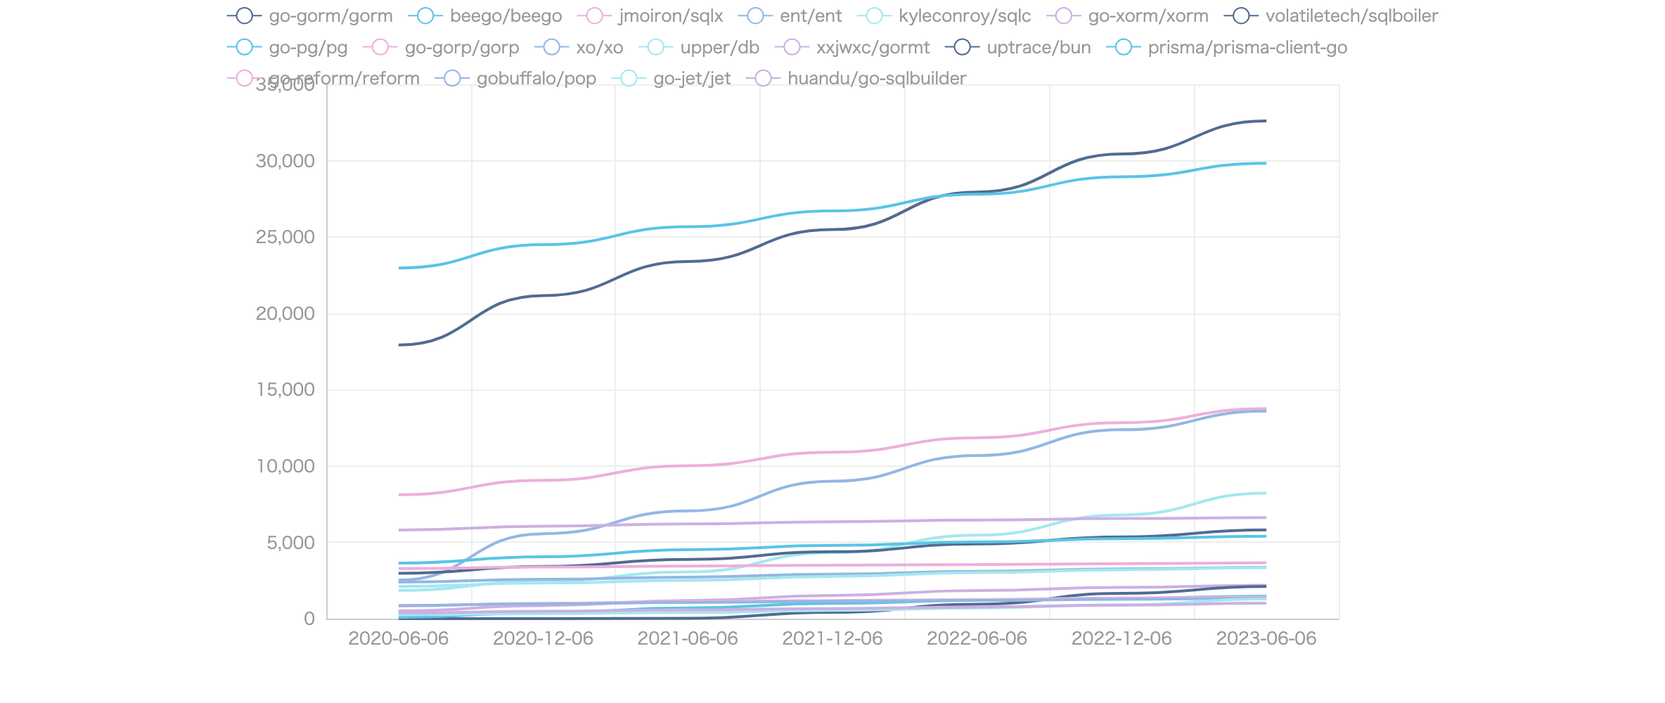
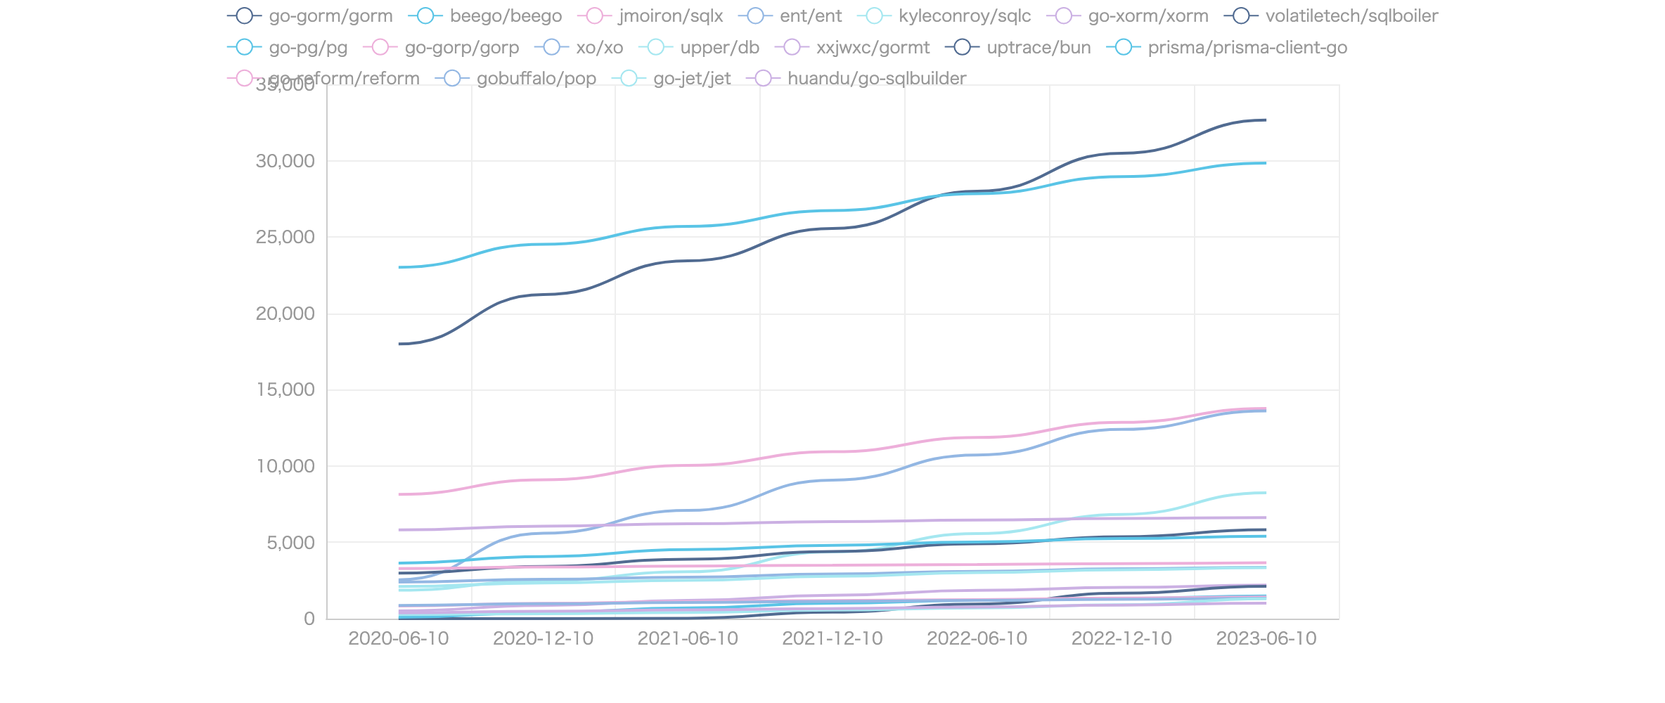
update readme

diff --git a/output/orm_chart.html b/output/orm_chart.html
@@ -10,20 +10,20 @@
 
 <body>
 <div class="container">
-    <div class="item" id="aJYYSRXcNXSx" style="width:900px;height:500px;"></div>
+    <div class="item" id="UhxAJjTzHyHX" style="width:900px;height:500px;"></div>
 </div>
 
 <script type="text/javascript">
     "use strict";
-    let goecharts_aJYYSRXcNXSx = echarts.init(document.getElementById('aJYYSRXcNXSx'), "westeros");
-    let option_aJYYSRXcNXSx = {"dataset":{"source":null},"legend":{"show":true,"type":""},"series":[{"name":"go-gorm/gorm","type":"line","smooth":true,"connectNulls":false,"showSymbol":false,"waveAnimation":false,"renderLabelForZeroData":false,"selectedMode":false,"animation":false,"data":[{"value":17924,"XAxisIndex":0,"YAxisIndex":0},{"value":21164,"XAxisIndex":0,"YAxisIndex":0},{"value":23393,"XAxisIndex":0,"YAxisIndex":0},{"value":25487,"XAxisIndex":0,"YAxisIndex":0},{"value":27946,"XAxisIndex":0,"YAxisIndex":0},{"value":30438,"XAxisIndex":0,"YAxisIndex":0},{"value":32605,"XAxisIndex":0,"YAxisIndex":0}]},{"name":"beego/beego","type":"line","smooth":true,"connectNulls":false,"showSymbol":false,"waveAnimation":false,"renderLabelForZeroData":false,"selectedMode":false,"animation":false,"data":[{"value":22973,"XAxisIndex":0,"YAxisIndex":0},{"value":24498,"XAxisIndex":0,"YAxisIndex":0},{"value":25670,"XAxisIndex":0,"YAxisIndex":0},{"value":26706,"XAxisIndex":0,"YAxisIndex":0},{"value":27804,"XAxisIndex":0,"YAxisIndex":0},{"value":28943,"XAxisIndex":0,"YAxisIndex":0},{"value":29826,"XAxisIndex":0,"YAxisIndex":0}]},{"name":"jmoiron/sqlx","type":"line","smooth":true,"connectNulls":false,"showSymbol":false,"waveAnimation":false,"renderLabelForZeroData":false,"selectedMode":false,"animation":false,"data":[{"value":8121,"XAxisIndex":0,"YAxisIndex":0},{"value":9066,"XAxisIndex":0,"YAxisIndex":0},{"value":10017,"XAxisIndex":0,"YAxisIndex":0},{"value":10903,"XAxisIndex":0,"YAxisIndex":0},{"value":11851,"XAxisIndex":0,"YAxisIndex":0},{"value":12836,"XAxisIndex":0,"YAxisIndex":0},{"value":13763,"XAxisIndex":0,"YAxisIndex":0}]},{"name":"ent/ent","type":"line","smooth":true,"connectNulls":false,"showSymbol":false,"waveAnimation":false,"renderLabelForZeroData":false,"selectedMode":false,"animation":false,"data":[{"value":2523,"XAxisIndex":0,"YAxisIndex":0},{"value":5566,"XAxisIndex":0,"YAxisIndex":0},{"value":7057,"XAxisIndex":0,"YAxisIndex":0},{"value":9004,"XAxisIndex":0,"YAxisIndex":0},{"value":10686,"XAxisIndex":0,"YAxisIndex":0},{"value":12373,"XAxisIndex":0,"YAxisIndex":0},{"value":13594,"XAxisIndex":0,"YAxisIndex":0}]},{"name":"kyleconroy/sqlc","type":"line","smooth":true,"connectNulls":false,"showSymbol":false,"waveAnimation":false,"renderLabelForZeroData":false,"selectedMode":false,"animation":false,"data":[{"value":1854,"XAxisIndex":0,"YAxisIndex":0},{"value":2457,"XAxisIndex":0,"YAxisIndex":0},{"value":3058,"XAxisIndex":0,"YAxisIndex":0},{"value":4322,"XAxisIndex":0,"YAxisIndex":0},{"value":5463,"XAxisIndex":0,"YAxisIndex":0},{"value":6798,"XAxisIndex":0,"YAxisIndex":0},{"value":8226,"XAxisIndex":0,"YAxisIndex":0}]},{"name":"go-xorm/xorm","type":"line","smooth":true,"connectNulls":false,"showSymbol":false,"waveAnimation":false,"renderLabelForZeroData":false,"selectedMode":false,"animation":false,"data":[{"value":5799,"XAxisIndex":0,"YAxisIndex":0},{"value":6053,"XAxisIndex":0,"YAxisIndex":0},{"value":6209,"XAxisIndex":0,"YAxisIndex":0},{"value":6349,"XAxisIndex":0,"YAxisIndex":0},{"value":6455,"XAxisIndex":0,"YAxisIndex":0},{"value":6559,"XAxisIndex":0,"YAxisIndex":0},{"value":6623,"XAxisIndex":0,"YAxisIndex":0}]},{"name":"volatiletech/sqlboiler","type":"line","smooth":true,"connectNulls":false,"showSymbol":false,"waveAnimation":false,"renderLabelForZeroData":false,"selectedMode":false,"animation":false,"data":[{"value":2974,"XAxisIndex":0,"YAxisIndex":0},{"value":3414,"XAxisIndex":0,"YAxisIndex":0},{"value":3882,"XAxisIndex":0,"YAxisIndex":0},{"value":4381,"XAxisIndex":0,"YAxisIndex":0},{"value":4888,"XAxisIndex":0,"YAxisIndex":0},{"value":5356,"XAxisIndex":0,"YAxisIndex":0},{"value":5816,"XAxisIndex":0,"YAxisIndex":0}]},{"name":"go-pg/pg","type":"line","smooth":true,"connectNulls":false,"showSymbol":false,"waveAnimation":false,"renderLabelForZeroData":false,"selectedMode":false,"animation":false,"data":[{"value":3638,"XAxisIndex":0,"YAxisIndex":0},{"value":4053,"XAxisIndex":0,"YAxisIndex":0},{"value":4509,"XAxisIndex":0,"YAxisIndex":0},{"value":4798,"XAxisIndex":0,"YAxisIndex":0},{"value":5016,"XAxisIndex":0,"YAxisIndex":0},{"value":5240,"XAxisIndex":0,"YAxisIndex":0},{"value":5399,"XAxisIndex":0,"YAxisIndex":0}]},{"name":"go-gorp/gorp","type":"line","smooth":true,"connectNulls":false,"showSymbol":false,"waveAnimation":false,"renderLabelForZeroData":false,"selectedMode":false,"animation":false,"data":[{"value":3277,"XAxisIndex":0,"YAxisIndex":0},{"value":3380,"XAxisIndex":0,"YAxisIndex":0},{"value":3441,"XAxisIndex":0,"YAxisIndex":0},{"value":3502,"XAxisIndex":0,"YAxisIndex":0},{"value":3547,"XAxisIndex":0,"YAxisIndex":0},{"value":3602,"XAxisIndex":0,"YAxisIndex":0},{"value":3658,"XAxisIndex":0,"YAxisIndex":0}]},{"name":"xo/xo","type":"line","smooth":true,"connectNulls":false,"showSymbol":false,"waveAnimation":false,"renderLabelForZeroData":false,"selectedMode":false,"animation":false,"data":[{"value":2391,"XAxisIndex":0,"YAxisIndex":0},{"value":2574,"XAxisIndex":0,"YAxisIndex":0},{"value":2717,"XAxisIndex":0,"YAxisIndex":0},{"value":2916,"XAxisIndex":0,"YAxisIndex":0},{"value":3098,"XAxisIndex":0,"YAxisIndex":0},{"value":3258,"XAxisIndex":0,"YAxisIndex":0},{"value":3362,"XAxisIndex":0,"YAxisIndex":0}]},{"name":"upper/db","type":"line","smooth":true,"connectNulls":false,"showSymbol":false,"waveAnimation":false,"renderLabelForZeroData":false,"selectedMode":false,"animation":false,"data":[{"value":2103,"XAxisIndex":0,"YAxisIndex":0},{"value":2333,"XAxisIndex":0,"YAxisIndex":0},{"value":2508,"XAxisIndex":0,"YAxisIndex":0},{"value":2768,"XAxisIndex":0,"YAxisIndex":0},{"value":3016,"XAxisIndex":0,"YAxisIndex":0},{"value":3202,"XAxisIndex":0,"YAxisIndex":0},{"value":3334,"XAxisIndex":0,"YAxisIndex":0}]},{"name":"xxjwxc/gormt","type":"line","smooth":true,"connectNulls":false,"showSymbol":false,"waveAnimation":false,"renderLabelForZeroData":false,"selectedMode":false,"animation":false,"data":[{"value":505,"XAxisIndex":0,"YAxisIndex":0},{"value":852,"XAxisIndex":0,"YAxisIndex":0},{"value":1187,"XAxisIndex":0,"YAxisIndex":0},{"value":1519,"XAxisIndex":0,"YAxisIndex":0},{"value":1841,"XAxisIndex":0,"YAxisIndex":0},{"value":2045,"XAxisIndex":0,"YAxisIndex":0},{"value":2188,"XAxisIndex":0,"YAxisIndex":0}]},{"name":"uptrace/bun","type":"line","smooth":true,"connectNulls":false,"showSymbol":false,"waveAnimation":false,"renderLabelForZeroData":false,"selectedMode":false,"animation":false,"data":[{"value":0,"XAxisIndex":0,"YAxisIndex":0},{"value":0,"XAxisIndex":0,"YAxisIndex":0},{"value":25,"XAxisIndex":0,"YAxisIndex":0},{"value":417,"XAxisIndex":0,"YAxisIndex":0},{"value":947,"XAxisIndex":0,"YAxisIndex":0},{"value":1653,"XAxisIndex":0,"YAxisIndex":0},{"value":2106,"XAxisIndex":0,"YAxisIndex":0}]},{"name":"prisma/prisma-client-go","type":"line","smooth":true,"connectNulls":false,"showSymbol":false,"waveAnimation":false,"renderLabelForZeroData":false,"selectedMode":false,"animation":false,"data":[{"value":81,"XAxisIndex":0,"YAxisIndex":0},{"value":391,"XAxisIndex":0,"YAxisIndex":0},{"value":697,"XAxisIndex":0,"YAxisIndex":0},{"value":1001,"XAxisIndex":0,"YAxisIndex":0},{"value":1193,"XAxisIndex":0,"YAxisIndex":0},{"value":1324,"XAxisIndex":0,"YAxisIndex":0},{"value":1478,"XAxisIndex":0,"YAxisIndex":0}]},{"name":"go-reform/reform","type":"line","smooth":true,"connectNulls":false,"showSymbol":false,"waveAnimation":false,"renderLabelForZeroData":false,"selectedMode":false,"animation":false,"data":[{"value":828,"XAxisIndex":0,"YAxisIndex":0},{"value":1004,"XAxisIndex":0,"YAxisIndex":0},{"value":1114,"XAxisIndex":0,"YAxisIndex":0},{"value":1189,"XAxisIndex":0,"YAxisIndex":0},{"value":1244,"XAxisIndex":0,"YAxisIndex":0},{"value":1349,"XAxisIndex":0,"YAxisIndex":0},{"value":1413,"XAxisIndex":0,"YAxisIndex":0}]},{"name":"gobuffalo/pop","type":"line","smooth":true,"connectNulls":false,"showSymbol":false,"waveAnimation":false,"renderLabelForZeroData":false,"selectedMode":false,"animation":false,"data":[{"value":863,"XAxisIndex":0,"YAxisIndex":0},{"value":972,"XAxisIndex":0,"YAxisIndex":0},{"value":1055,"XAxisIndex":0,"YAxisIndex":0},{"value":1131,"XAxisIndex":0,"YAxisIndex":0},{"value":1200,"XAxisIndex":0,"YAxisIndex":0},{"value":1262,"XAxisIndex":0,"YAxisIndex":0},{"value":1332,"XAxisIndex":0,"YAxisIndex":0}]},{"name":"go-jet/jet","type":"line","smooth":true,"connectNulls":false,"showSymbol":false,"waveAnimation":false,"renderLabelForZeroData":false,"selectedMode":false,"animation":false,"data":[{"value":260,"XAxisIndex":0,"YAxisIndex":0},{"value":326,"XAxisIndex":0,"YAxisIndex":0},{"value":404,"XAxisIndex":0,"YAxisIndex":0},{"value":546,"XAxisIndex":0,"YAxisIndex":0},{"value":703,"XAxisIndex":0,"YAxisIndex":0},{"value":901,"XAxisIndex":0,"YAxisIndex":0},{"value":1295,"XAxisIndex":0,"YAxisIndex":0}]},{"name":"huandu/go-sqlbuilder","type":"line","smooth":true,"connectNulls":false,"showSymbol":false,"waveAnimation":false,"renderLabelForZeroData":false,"selectedMode":false,"animation":false,"data":[{"value":375,"XAxisIndex":0,"YAxisIndex":0},{"value":487,"XAxisIndex":0,"YAxisIndex":0},{"value":572,"XAxisIndex":0,"YAxisIndex":0},{"value":660,"XAxisIndex":0,"YAxisIndex":0},{"value":765,"XAxisIndex":0,"YAxisIndex":0},{"value":884,"XAxisIndex":0,"YAxisIndex":0},{"value":1009,"XAxisIndex":0,"YAxisIndex":0}]}],"title":{},"tooltip":{"show":false},"xAxis":[{"data":["2020-06-06","2020-12-06","2021-06-06","2021-12-06","2022-06-06","2022-12-06","2023-06-06"]}],"yAxis":[{}]}
+    let goecharts_UhxAJjTzHyHX = echarts.init(document.getElementById('UhxAJjTzHyHX'), "westeros");
+    let option_UhxAJjTzHyHX = {"dataset":{"source":null},"legend":{"show":true,"type":""},"series":[{"name":"go-gorm/gorm","type":"line","smooth":true,"connectNulls":false,"showSymbol":false,"waveAnimation":false,"renderLabelForZeroData":false,"selectedMode":false,"animation":false,"data":[{"value":17991,"XAxisIndex":0,"YAxisIndex":0},{"value":21231,"XAxisIndex":0,"YAxisIndex":0},{"value":23438,"XAxisIndex":0,"YAxisIndex":0},{"value":25556,"XAxisIndex":0,"YAxisIndex":0},{"value":28001,"XAxisIndex":0,"YAxisIndex":0},{"value":30484,"XAxisIndex":0,"YAxisIndex":0},{"value":32658,"XAxisIndex":0,"YAxisIndex":0}]},{"name":"beego/beego","type":"line","smooth":true,"connectNulls":false,"showSymbol":false,"waveAnimation":false,"renderLabelForZeroData":false,"selectedMode":false,"animation":false,"data":[{"value":23013,"XAxisIndex":0,"YAxisIndex":0},{"value":24525,"XAxisIndex":0,"YAxisIndex":0},{"value":25699,"XAxisIndex":0,"YAxisIndex":0},{"value":26735,"XAxisIndex":0,"YAxisIndex":0},{"value":27838,"XAxisIndex":0,"YAxisIndex":0},{"value":28958,"XAxisIndex":0,"YAxisIndex":0},{"value":29837,"XAxisIndex":0,"YAxisIndex":0}]},{"name":"jmoiron/sqlx","type":"line","smooth":true,"connectNulls":false,"showSymbol":false,"waveAnimation":false,"renderLabelForZeroData":false,"selectedMode":false,"animation":false,"data":[{"value":8139,"XAxisIndex":0,"YAxisIndex":0},{"value":9093,"XAxisIndex":0,"YAxisIndex":0},{"value":10041,"XAxisIndex":0,"YAxisIndex":0},{"value":10932,"XAxisIndex":0,"YAxisIndex":0},{"value":11870,"XAxisIndex":0,"YAxisIndex":0},{"value":12857,"XAxisIndex":0,"YAxisIndex":0},{"value":13775,"XAxisIndex":0,"YAxisIndex":0}]},{"name":"ent/ent","type":"line","smooth":true,"connectNulls":false,"showSymbol":false,"waveAnimation":false,"renderLabelForZeroData":false,"selectedMode":false,"animation":false,"data":[{"value":2544,"XAxisIndex":0,"YAxisIndex":0},{"value":5590,"XAxisIndex":0,"YAxisIndex":0},{"value":7087,"XAxisIndex":0,"YAxisIndex":0},{"value":9078,"XAxisIndex":0,"YAxisIndex":0},{"value":10722,"XAxisIndex":0,"YAxisIndex":0},{"value":12395,"XAxisIndex":0,"YAxisIndex":0},{"value":13611,"XAxisIndex":0,"YAxisIndex":0}]},{"name":"kyleconroy/sqlc","type":"line","smooth":true,"connectNulls":false,"showSymbol":false,"waveAnimation":false,"renderLabelForZeroData":false,"selectedMode":false,"animation":false,"data":[{"value":1862,"XAxisIndex":0,"YAxisIndex":0},{"value":2482,"XAxisIndex":0,"YAxisIndex":0},{"value":3071,"XAxisIndex":0,"YAxisIndex":0},{"value":4371,"XAxisIndex":0,"YAxisIndex":0},{"value":5567,"XAxisIndex":0,"YAxisIndex":0},{"value":6830,"XAxisIndex":0,"YAxisIndex":0},{"value":8243,"XAxisIndex":0,"YAxisIndex":0}]},{"name":"go-xorm/xorm","type":"line","smooth":true,"connectNulls":false,"showSymbol":false,"waveAnimation":false,"renderLabelForZeroData":false,"selectedMode":false,"animation":false,"data":[{"value":5810,"XAxisIndex":0,"YAxisIndex":0},{"value":6054,"XAxisIndex":0,"YAxisIndex":0},{"value":6212,"XAxisIndex":0,"YAxisIndex":0},{"value":6354,"XAxisIndex":0,"YAxisIndex":0},{"value":6456,"XAxisIndex":0,"YAxisIndex":0},{"value":6559,"XAxisIndex":0,"YAxisIndex":0},{"value":6624,"XAxisIndex":0,"YAxisIndex":0}]},{"name":"volatiletech/sqlboiler","type":"line","smooth":true,"connectNulls":false,"showSymbol":false,"waveAnimation":false,"renderLabelForZeroData":false,"selectedMode":false,"animation":false,"data":[{"value":2981,"XAxisIndex":0,"YAxisIndex":0},{"value":3422,"XAxisIndex":0,"YAxisIndex":0},{"value":3893,"XAxisIndex":0,"YAxisIndex":0},{"value":4396,"XAxisIndex":0,"YAxisIndex":0},{"value":4899,"XAxisIndex":0,"YAxisIndex":0},{"value":5363,"XAxisIndex":0,"YAxisIndex":0},{"value":5828,"XAxisIndex":0,"YAxisIndex":0}]},{"name":"go-pg/pg","type":"line","smooth":true,"connectNulls":false,"showSymbol":false,"waveAnimation":false,"renderLabelForZeroData":false,"selectedMode":false,"animation":false,"data":[{"value":3643,"XAxisIndex":0,"YAxisIndex":0},{"value":4068,"XAxisIndex":0,"YAxisIndex":0},{"value":4520,"XAxisIndex":0,"YAxisIndex":0},{"value":4805,"XAxisIndex":0,"YAxisIndex":0},{"value":5024,"XAxisIndex":0,"YAxisIndex":0},{"value":5245,"XAxisIndex":0,"YAxisIndex":0},{"value":5399,"XAxisIndex":0,"YAxisIndex":0}]},{"name":"go-gorp/gorp","type":"line","smooth":true,"connectNulls":false,"showSymbol":false,"waveAnimation":false,"renderLabelForZeroData":false,"selectedMode":false,"animation":false,"data":[{"value":3281,"XAxisIndex":0,"YAxisIndex":0},{"value":3380,"XAxisIndex":0,"YAxisIndex":0},{"value":3442,"XAxisIndex":0,"YAxisIndex":0},{"value":3503,"XAxisIndex":0,"YAxisIndex":0},{"value":3548,"XAxisIndex":0,"YAxisIndex":0},{"value":3602,"XAxisIndex":0,"YAxisIndex":0},{"value":3660,"XAxisIndex":0,"YAxisIndex":0}]},{"name":"xo/xo","type":"line","smooth":true,"connectNulls":false,"showSymbol":false,"waveAnimation":false,"renderLabelForZeroData":false,"selectedMode":false,"animation":false,"data":[{"value":2394,"XAxisIndex":0,"YAxisIndex":0},{"value":2578,"XAxisIndex":0,"YAxisIndex":0},{"value":2720,"XAxisIndex":0,"YAxisIndex":0},{"value":2923,"XAxisIndex":0,"YAxisIndex":0},{"value":3100,"XAxisIndex":0,"YAxisIndex":0},{"value":3264,"XAxisIndex":0,"YAxisIndex":0},{"value":3364,"XAxisIndex":0,"YAxisIndex":0}]},{"name":"upper/db","type":"line","smooth":true,"connectNulls":false,"showSymbol":false,"waveAnimation":false,"renderLabelForZeroData":false,"selectedMode":false,"animation":false,"data":[{"value":2105,"XAxisIndex":0,"YAxisIndex":0},{"value":2339,"XAxisIndex":0,"YAxisIndex":0},{"value":2511,"XAxisIndex":0,"YAxisIndex":0},{"value":2773,"XAxisIndex":0,"YAxisIndex":0},{"value":3017,"XAxisIndex":0,"YAxisIndex":0},{"value":3205,"XAxisIndex":0,"YAxisIndex":0},{"value":3337,"XAxisIndex":0,"YAxisIndex":0}]},{"name":"xxjwxc/gormt","type":"line","smooth":true,"connectNulls":false,"showSymbol":false,"waveAnimation":false,"renderLabelForZeroData":false,"selectedMode":false,"animation":false,"data":[{"value":509,"XAxisIndex":0,"YAxisIndex":0},{"value":861,"XAxisIndex":0,"YAxisIndex":0},{"value":1194,"XAxisIndex":0,"YAxisIndex":0},{"value":1530,"XAxisIndex":0,"YAxisIndex":0},{"value":1852,"XAxisIndex":0,"YAxisIndex":0},{"value":2047,"XAxisIndex":0,"YAxisIndex":0},{"value":2194,"XAxisIndex":0,"YAxisIndex":0}]},{"name":"uptrace/bun","type":"line","smooth":true,"connectNulls":false,"showSymbol":false,"waveAnimation":false,"renderLabelForZeroData":false,"selectedMode":false,"animation":false,"data":[{"value":0,"XAxisIndex":0,"YAxisIndex":0},{"value":0,"XAxisIndex":0,"YAxisIndex":0},{"value":28,"XAxisIndex":0,"YAxisIndex":0},{"value":429,"XAxisIndex":0,"YAxisIndex":0},{"value":956,"XAxisIndex":0,"YAxisIndex":0},{"value":1669,"XAxisIndex":0,"YAxisIndex":0},{"value":2116,"XAxisIndex":0,"YAxisIndex":0}]},{"name":"prisma/prisma-client-go","type":"line","smooth":true,"connectNulls":false,"showSymbol":false,"waveAnimation":false,"renderLabelForZeroData":false,"selectedMode":false,"animation":false,"data":[{"value":91,"XAxisIndex":0,"YAxisIndex":0},{"value":396,"XAxisIndex":0,"YAxisIndex":0},{"value":702,"XAxisIndex":0,"YAxisIndex":0},{"value":1013,"XAxisIndex":0,"YAxisIndex":0},{"value":1199,"XAxisIndex":0,"YAxisIndex":0},{"value":1329,"XAxisIndex":0,"YAxisIndex":0},{"value":1480,"XAxisIndex":0,"YAxisIndex":0}]},{"name":"go-reform/reform","type":"line","smooth":true,"connectNulls":false,"showSymbol":false,"waveAnimation":false,"renderLabelForZeroData":false,"selectedMode":false,"animation":false,"data":[{"value":828,"XAxisIndex":0,"YAxisIndex":0},{"value":1004,"XAxisIndex":0,"YAxisIndex":0},{"value":1117,"XAxisIndex":0,"YAxisIndex":0},{"value":1189,"XAxisIndex":0,"YAxisIndex":0},{"value":1244,"XAxisIndex":0,"YAxisIndex":0},{"value":1351,"XAxisIndex":0,"YAxisIndex":0},{"value":1414,"XAxisIndex":0,"YAxisIndex":0}]},{"name":"gobuffalo/pop","type":"line","smooth":true,"connectNulls":false,"showSymbol":false,"waveAnimation":false,"renderLabelForZeroData":false,"selectedMode":false,"animation":false,"data":[{"value":867,"XAxisIndex":0,"YAxisIndex":0},{"value":974,"XAxisIndex":0,"YAxisIndex":0},{"value":1057,"XAxisIndex":0,"YAxisIndex":0},{"value":1133,"XAxisIndex":0,"YAxisIndex":0},{"value":1200,"XAxisIndex":0,"YAxisIndex":0},{"value":1264,"XAxisIndex":0,"YAxisIndex":0},{"value":1335,"XAxisIndex":0,"YAxisIndex":0}]},{"name":"go-jet/jet","type":"line","smooth":true,"connectNulls":false,"showSymbol":false,"waveAnimation":false,"renderLabelForZeroData":false,"selectedMode":false,"animation":false,"data":[{"value":264,"XAxisIndex":0,"YAxisIndex":0},{"value":327,"XAxisIndex":0,"YAxisIndex":0},{"value":407,"XAxisIndex":0,"YAxisIndex":0},{"value":559,"XAxisIndex":0,"YAxisIndex":0},{"value":707,"XAxisIndex":0,"YAxisIndex":0},{"value":908,"XAxisIndex":0,"YAxisIndex":0},{"value":1301,"XAxisIndex":0,"YAxisIndex":0}]},{"name":"huandu/go-sqlbuilder","type":"line","smooth":true,"connectNulls":false,"showSymbol":false,"waveAnimation":false,"renderLabelForZeroData":false,"selectedMode":false,"animation":false,"data":[{"value":377,"XAxisIndex":0,"YAxisIndex":0},{"value":489,"XAxisIndex":0,"YAxisIndex":0},{"value":576,"XAxisIndex":0,"YAxisIndex":0},{"value":662,"XAxisIndex":0,"YAxisIndex":0},{"value":765,"XAxisIndex":0,"YAxisIndex":0},{"value":888,"XAxisIndex":0,"YAxisIndex":0},{"value":1012,"XAxisIndex":0,"YAxisIndex":0}]}],"title":{},"tooltip":{"show":false},"xAxis":[{"data":["2020-06-10","2020-12-10","2021-06-10","2021-12-10","2022-06-10","2022-12-10","2023-06-10"]}],"yAxis":[{}]}
 ;
     
-	let action_aJYYSRXcNXSx = {"areas":{},"type":""}
+	let action_UhxAJjTzHyHX = {"areas":{},"type":""}
 ;
     
-    goecharts_aJYYSRXcNXSx.setOption(option_aJYYSRXcNXSx);
- 	goecharts_aJYYSRXcNXSx.dispatchAction(action_aJYYSRXcNXSx);
+    goecharts_UhxAJjTzHyHX.setOption(option_UhxAJjTzHyHX);
+ 	goecharts_UhxAJjTzHyHX.dispatchAction(action_UhxAJjTzHyHX);
 </script>
 
 <style>

diff --git a/README.md b/README.md
@@ -4,93 +4,93 @@ If there are any other public repositories of golang orMapper, I'd be glad to he
 [![Start数チャート](output/orm_chart.jpeg)](https://ryotaroseto.github.io/star-golang-orms/output/orm_chart.html)
 | No. | Project Name | Stars | Subscribers | Forks | Open Issues | Description | Createdate | Last Update |
 | --- | ------------ | ----- | ----------- | ----- | ----------- | ----------- | ----------- | ----------- |
-| 1 | [go-gorm/gorm](https://github.com/go-gorm/gorm) | 32605 | 496 | 3595 | 216 | The fantastic ORM library for Golang, aims to be developer friendly | 2013-10-25 08:31:38 | 2023-06-05 12:21:42 |
-| 2 | [beego/beego](https://github.com/beego/beego) | 29826 | 1208 | 5583 | 10 | beego is an open-source, high-performance web framework for the Go programming language. | 2012-02-29 02:32:08 | 2023-06-05 14:19:08 |
-| 3 | [jmoiron/sqlx](https://github.com/jmoiron/sqlx) | 13763 | 195 | 1024 | 326 | general purpose extensions to golang's database/sql | 2013-01-28 19:40:00 | 2023-06-05 12:01:04 |
-| 4 | [ent/ent](https://github.com/ent/ent) | 13594 | 149 | 809 | 309 | An entity framework for Go | 2019-06-12 22:53:55 | 2023-06-05 13:52:44 |
-| 5 | [kyleconroy/sqlc](https://github.com/kyleconroy/sqlc) | 8226 | 73 | 552 | 382 | Generate type-safe code from SQL | 2019-06-21 21:11:35 | 2023-06-05 13:19:43 |
-| 6 | [go-xorm/xorm](https://github.com/go-xorm/xorm) | 6623 | 266 | 773 | 307 | Simple and Powerful ORM for Go, support mysql,postgres,tidb,sqlite3,mssql,oracle, Moved to https://gitea.com/xorm/xorm | 2013-05-09 02:35:04 | 2023-06-05 14:47:19 |
-| 7 | [volatiletech/sqlboiler](https://github.com/volatiletech/sqlboiler) | 5816 | 74 | 499 | 85 | Generate a Go ORM tailored to your database schema. | 2016-02-21 06:18:25 | 2023-06-05 08:46:33 |
-| 8 | [go-pg/pg](https://github.com/go-pg/pg) | 5399 | 90 | 394 | 115 | Golang ORM with focus on PostgreSQL features and performance | 2013-04-24 12:31:41 | 2023-06-04 20:46:23 |
-| 9 | [go-gorp/gorp](https://github.com/go-gorp/gorp) | 3658 | 109 | 377 | 144 | Go Relational Persistence - an ORM-ish library for Go | 2012-01-04 19:50:09 | 2023-06-01 14:05:57 |
-| 10 | [xo/xo](https://github.com/xo/xo) | 3362 | 71 | 305 | 42 | Command line tool to generate idiomatic Go code for SQL databases supporting PostgreSQL, MySQL, SQLite, Oracle, and Microsoft SQL Server | 2016-02-05 10:22:20 | 2023-06-03 08:49:46 |
-| 11 | [upper/db](https://github.com/upper/db) | 3334 | 64 | 231 | 156 | Data access layer for PostgreSQL, CockroachDB, MySQL, SQLite and MongoDB with ORM-like features. | 2013-10-23 02:04:36 | 2023-06-05 06:38:09 |
-| 12 | [xxjwxc/gormt](https://github.com/xxjwxc/gormt) | 2188 | 22 | 337 | 56 | database to golang struct | 2019-05-05 13:10:26 | 2023-06-04 08:08:08 |
-| 13 | [uptrace/bun](https://github.com/uptrace/bun) | 2106 | 24 | 161 | 100 | SQL-first Golang ORM | 2021-05-03 11:40:52 | 2023-06-05 11:41:48 |
-| 14 | [prisma/prisma-client-go](https://github.com/prisma/prisma-client-go) | 1478 | 26 | 81 | 102 | Prisma Client Go is an auto-generated and fully type-safe database client | 2019-09-24 12:17:03 | 2023-06-03 14:32:11 |
-| 15 | [go-reform/reform](https://github.com/go-reform/reform) | 1413 | 25 | 72 | 86 | A better ORM for Go, based on non-empty interfaces and code generation. | 2016-02-25 09:41:09 | 2023-06-02 07:39:35 |
-| 16 | [gobuffalo/pop](https://github.com/gobuffalo/pop) | 1332 | 23 | 236 | 95 | A Tasty Treat For All Your Database Needs | 2018-02-07 21:13:46 | 2023-06-05 06:10:54 |
-| 17 | [go-jet/jet](https://github.com/go-jet/jet) | 1295 | 18 | 76 | 25 | Type safe SQL builder with code generation and automatic query result data mapping | 2019-03-02 11:06:23 | 2023-06-05 12:38:12 |
-| 18 | [huandu/go-sqlbuilder](https://github.com/huandu/go-sqlbuilder) | 1009 | 12 | 93 | 9 | A flexible and powerful SQL string builder library plus a zero-config ORM. | 2017-12-27 16:37:48 | 2023-06-03 06:42:55 |
+| 1 | [go-gorm/gorm](https://github.com/go-gorm/gorm) | 32658 | 496 | 3605 | 225 | The fantastic ORM library for Golang, aims to be developer friendly | 2013-10-25 08:31:38 | 2023-06-09 20:54:59 |
+| 2 | [beego/beego](https://github.com/beego/beego) | 29838 | 1208 | 5589 | 9 | beego is an open-source, high-performance web framework for the Go programming language. | 2012-02-29 02:32:08 | 2023-06-09 21:12:10 |
+| 3 | [jmoiron/sqlx](https://github.com/jmoiron/sqlx) | 13775 | 195 | 1027 | 326 | general purpose extensions to golang's database/sql | 2013-01-28 19:40:00 | 2023-06-10 01:37:19 |
+| 4 | [ent/ent](https://github.com/ent/ent) | 13611 | 149 | 809 | 314 | An entity framework for Go | 2019-06-12 22:53:55 | 2023-06-09 20:22:00 |
+| 5 | [kyleconroy/sqlc](https://github.com/kyleconroy/sqlc) | 8243 | 73 | 553 | 323 | Generate type-safe code from SQL | 2019-06-21 21:11:35 | 2023-06-09 22:59:58 |
+| 6 | [go-xorm/xorm](https://github.com/go-xorm/xorm) | 6624 | 266 | 773 | 307 | Simple and Powerful ORM for Go, support mysql,postgres,tidb,sqlite3,mssql,oracle, Moved to https://gitea.com/xorm/xorm | 2013-05-09 02:35:04 | 2023-06-06 04:12:10 |
+| 7 | [volatiletech/sqlboiler](https://github.com/volatiletech/sqlboiler) | 5828 | 74 | 500 | 86 | Generate a Go ORM tailored to your database schema. | 2016-02-21 06:18:25 | 2023-06-09 08:30:12 |
+| 8 | [go-pg/pg](https://github.com/go-pg/pg) | 5399 | 90 | 394 | 115 | Golang ORM with focus on PostgreSQL features and performance | 2013-04-24 12:31:41 | 2023-06-09 03:04:48 |
+| 9 | [go-gorp/gorp](https://github.com/go-gorp/gorp) | 3660 | 109 | 378 | 144 | Go Relational Persistence - an ORM-ish library for Go | 2012-01-04 19:50:09 | 2023-06-08 06:21:45 |
+| 10 | [xo/xo](https://github.com/xo/xo) | 3364 | 71 | 305 | 42 | Command line tool to generate idiomatic Go code for SQL databases supporting PostgreSQL, MySQL, SQLite, Oracle, and Microsoft SQL Server | 2016-02-05 10:22:20 | 2023-06-09 16:09:18 |
+| 11 | [upper/db](https://github.com/upper/db) | 3337 | 64 | 232 | 156 | Data access layer for PostgreSQL, CockroachDB, MySQL, SQLite and MongoDB with ORM-like features. | 2013-10-23 02:04:36 | 2023-06-08 06:24:53 |
+| 12 | [xxjwxc/gormt](https://github.com/xxjwxc/gormt) | 2194 | 22 | 339 | 56 | database to golang struct | 2019-05-05 13:10:26 | 2023-06-09 18:53:38 |
+| 13 | [uptrace/bun](https://github.com/uptrace/bun) | 2116 | 24 | 162 | 101 | SQL-first Golang ORM | 2021-05-03 11:40:52 | 2023-06-09 21:02:51 |
+| 14 | [prisma/prisma-client-go](https://github.com/prisma/prisma-client-go) | 1480 | 25 | 81 | 102 | Prisma Client Go is an auto-generated and fully type-safe database client | 2019-09-24 12:17:03 | 2023-06-08 22:31:32 |
+| 15 | [go-reform/reform](https://github.com/go-reform/reform) | 1414 | 25 | 72 | 86 | A better ORM for Go, based on non-empty interfaces and code generation. | 2016-02-25 09:41:09 | 2023-06-07 10:18:10 |
+| 16 | [gobuffalo/pop](https://github.com/gobuffalo/pop) | 1335 | 23 | 237 | 96 | A Tasty Treat For All Your Database Needs | 2018-02-07 21:13:46 | 2023-06-09 03:20:38 |
+| 17 | [go-jet/jet](https://github.com/go-jet/jet) | 1301 | 18 | 77 | 25 | Type safe SQL builder with code generation and automatic query result data mapping | 2019-03-02 11:06:23 | 2023-06-08 23:44:54 |
+| 18 | [huandu/go-sqlbuilder](https://github.com/huandu/go-sqlbuilder) | 1012 | 12 | 93 | 9 | A flexible and powerful SQL string builder library plus a zero-config ORM. | 2017-12-27 16:37:48 | 2023-06-08 08:23:34 |
 ## [go-gorm/gorm](https://github.com/go-gorm/gorm)
-| 2020-06-06 | 2020-12-06 | 2021-06-06 | 2021-12-06 | 2022-06-06 | 2022-12-06 | 2023-06-06 |
+| 2020-06-10 | 2020-12-10 | 2021-06-10 | 2021-12-10 | 2022-06-10 | 2022-12-10 | 2023-06-10 |
 | --- | --- | --- | --- | --- | --- | --- |
-| 17924 | 21164 | 23393 | 25487 | 27946 | 30438 | 32605 |
+| 17991 | 21231 | 23438 | 25556 | 28001 | 30484 | 32658 |
 ## [beego/beego](https://github.com/beego/beego)
-| 2020-06-06 | 2020-12-06 | 2021-06-06 | 2021-12-06 | 2022-06-06 | 2022-12-06 | 2023-06-06 |
+| 2020-06-10 | 2020-12-10 | 2021-06-10 | 2021-12-10 | 2022-06-10 | 2022-12-10 | 2023-06-10 |
 | --- | --- | --- | --- | --- | --- | --- |
-| 22973 | 24498 | 25670 | 26706 | 27804 | 28943 | 29826 |
+| 23013 | 24525 | 25699 | 26735 | 27838 | 28958 | 29837 |
 ## [jmoiron/sqlx](https://github.com/jmoiron/sqlx)
-| 2020-06-06 | 2020-12-06 | 2021-06-06 | 2021-12-06 | 2022-06-06 | 2022-12-06 | 2023-06-06 |
+| 2020-06-10 | 2020-12-10 | 2021-06-10 | 2021-12-10 | 2022-06-10 | 2022-12-10 | 2023-06-10 |
 | --- | --- | --- | --- | --- | --- | --- |
-| 8121 | 9066 | 10017 | 10903 | 11851 | 12836 | 13763 |
+| 8139 | 9093 | 10041 | 10932 | 11870 | 12857 | 13775 |
 ## [ent/ent](https://github.com/ent/ent)
-| 2020-06-06 | 2020-12-06 | 2021-06-06 | 2021-12-06 | 2022-06-06 | 2022-12-06 | 2023-06-06 |
+| 2020-06-10 | 2020-12-10 | 2021-06-10 | 2021-12-10 | 2022-06-10 | 2022-12-10 | 2023-06-10 |
 | --- | --- | --- | --- | --- | --- | --- |
-| 2523 | 5566 | 7057 | 9004 | 10686 | 12373 | 13594 |
+| 2544 | 5590 | 7087 | 9078 | 10722 | 12395 | 13611 |
 ## [kyleconroy/sqlc](https://github.com/kyleconroy/sqlc)
-| 2020-06-06 | 2020-12-06 | 2021-06-06 | 2021-12-06 | 2022-06-06 | 2022-12-06 | 2023-06-06 |
+| 2020-06-10 | 2020-12-10 | 2021-06-10 | 2021-12-10 | 2022-06-10 | 2022-12-10 | 2023-06-10 |
 | --- | --- | --- | --- | --- | --- | --- |
-| 1854 | 2457 | 3058 | 4322 | 5463 | 6798 | 8226 |
+| 1862 | 2482 | 3071 | 4371 | 5567 | 6830 | 8243 |
 ## [go-xorm/xorm](https://github.com/go-xorm/xorm)
-| 2020-06-06 | 2020-12-06 | 2021-06-06 | 2021-12-06 | 2022-06-06 | 2022-12-06 | 2023-06-06 |
+| 2020-06-10 | 2020-12-10 | 2021-06-10 | 2021-12-10 | 2022-06-10 | 2022-12-10 | 2023-06-10 |
 | --- | --- | --- | --- | --- | --- | --- |
-| 5799 | 6053 | 6209 | 6349 | 6455 | 6559 | 6623 |
+| 5810 | 6054 | 6212 | 6354 | 6456 | 6559 | 6624 |
 ## [volatiletech/sqlboiler](https://github.com/volatiletech/sqlboiler)
-| 2020-06-06 | 2020-12-06 | 2021-06-06 | 2021-12-06 | 2022-06-06 | 2022-12-06 | 2023-06-06 |
+| 2020-06-10 | 2020-12-10 | 2021-06-10 | 2021-12-10 | 2022-06-10 | 2022-12-10 | 2023-06-10 |
 | --- | --- | --- | --- | --- | --- | --- |
-| 2974 | 3414 | 3882 | 4381 | 4888 | 5356 | 5816 |
+| 2981 | 3422 | 3893 | 4396 | 4899 | 5363 | 5828 |
 ## [go-pg/pg](https://github.com/go-pg/pg)
-| 2020-06-06 | 2020-12-06 | 2021-06-06 | 2021-12-06 | 2022-06-06 | 2022-12-06 | 2023-06-06 |
+| 2020-06-10 | 2020-12-10 | 2021-06-10 | 2021-12-10 | 2022-06-10 | 2022-12-10 | 2023-06-10 |
 | --- | --- | --- | --- | --- | --- | --- |
-| 3638 | 4053 | 4509 | 4798 | 5016 | 5240 | 5399 |
+| 3643 | 4068 | 4520 | 4805 | 5024 | 5245 | 5399 |
 ## [go-gorp/gorp](https://github.com/go-gorp/gorp)
-| 2020-06-06 | 2020-12-06 | 2021-06-06 | 2021-12-06 | 2022-06-06 | 2022-12-06 | 2023-06-06 |
+| 2020-06-10 | 2020-12-10 | 2021-06-10 | 2021-12-10 | 2022-06-10 | 2022-12-10 | 2023-06-10 |
 | --- | --- | --- | --- | --- | --- | --- |
-| 3277 | 3380 | 3441 | 3502 | 3547 | 3602 | 3658 |
+| 3281 | 3380 | 3442 | 3503 | 3548 | 3602 | 3660 |
 ## [xo/xo](https://github.com/xo/xo)
-| 2020-06-06 | 2020-12-06 | 2021-06-06 | 2021-12-06 | 2022-06-06 | 2022-12-06 | 2023-06-06 |
+| 2020-06-10 | 2020-12-10 | 2021-06-10 | 2021-12-10 | 2022-06-10 | 2022-12-10 | 2023-06-10 |
 | --- | --- | --- | --- | --- | --- | --- |
-| 2391 | 2574 | 2717 | 2916 | 3098 | 3258 | 3362 |
+| 2394 | 2578 | 2720 | 2923 | 3100 | 3264 | 3364 |
 ## [upper/db](https://github.com/upper/db)
-| 2020-06-06 | 2020-12-06 | 2021-06-06 | 2021-12-06 | 2022-06-06 | 2022-12-06 | 2023-06-06 |
+| 2020-06-10 | 2020-12-10 | 2021-06-10 | 2021-12-10 | 2022-06-10 | 2022-12-10 | 2023-06-10 |
 | --- | --- | --- | --- | --- | --- | --- |
-| 2103 | 2333 | 2508 | 2768 | 3016 | 3202 | 3334 |
+| 2105 | 2339 | 2511 | 2773 | 3017 | 3205 | 3337 |
 ## [xxjwxc/gormt](https://github.com/xxjwxc/gormt)
-| 2020-06-06 | 2020-12-06 | 2021-06-06 | 2021-12-06 | 2022-06-06 | 2022-12-06 | 2023-06-06 |
+| 2020-06-10 | 2020-12-10 | 2021-06-10 | 2021-12-10 | 2022-06-10 | 2022-12-10 | 2023-06-10 |
 | --- | --- | --- | --- | --- | --- | --- |
-| 505 | 852 | 1187 | 1519 | 1841 | 2045 | 2188 |
+| 509 | 861 | 1194 | 1530 | 1852 | 2047 | 2194 |
 ## [uptrace/bun](https://github.com/uptrace/bun)
-| 2020-06-06 | 2020-12-06 | 2021-06-06 | 2021-12-06 | 2022-06-06 | 2022-12-06 | 2023-06-06 |
+| 2020-06-10 | 2020-12-10 | 2021-06-10 | 2021-12-10 | 2022-06-10 | 2022-12-10 | 2023-06-10 |
 | --- | --- | --- | --- | --- | --- | --- |
-| - | - | 25 | 417 | 947 | 1653 | 2106 |
+| - | - | 28 | 429 | 956 | 1669 | 2116 |
 ## [prisma/prisma-client-go](https://github.com/prisma/prisma-client-go)
-| 2020-06-06 | 2020-12-06 | 2021-06-06 | 2021-12-06 | 2022-06-06 | 2022-12-06 | 2023-06-06 |
+| 2020-06-10 | 2020-12-10 | 2021-06-10 | 2021-12-10 | 2022-06-10 | 2022-12-10 | 2023-06-10 |
 | --- | --- | --- | --- | --- | --- | --- |
-| 81 | 391 | 697 | 1001 | 1193 | 1324 | 1478 |
+| 91 | 396 | 702 | 1013 | 1199 | 1329 | 1480 |
 ## [go-reform/reform](https://github.com/go-reform/reform)
-| 2020-06-06 | 2020-12-06 | 2021-06-06 | 2021-12-06 | 2022-06-06 | 2022-12-06 | 2023-06-06 |
+| 2020-06-10 | 2020-12-10 | 2021-06-10 | 2021-12-10 | 2022-06-10 | 2022-12-10 | 2023-06-10 |
 | --- | --- | --- | --- | --- | --- | --- |
-| 828 | 1004 | 1114 | 1189 | 1244 | 1349 | 1413 |
+| 828 | 1004 | 1117 | 1189 | 1244 | 1351 | 1414 |
 ## [gobuffalo/pop](https://github.com/gobuffalo/pop)
-| 2020-06-06 | 2020-12-06 | 2021-06-06 | 2021-12-06 | 2022-06-06 | 2022-12-06 | 2023-06-06 |
+| 2020-06-10 | 2020-12-10 | 2021-06-10 | 2021-12-10 | 2022-06-10 | 2022-12-10 | 2023-06-10 |
 | --- | --- | --- | --- | --- | --- | --- |
-| 863 | 972 | 1055 | 1131 | 1200 | 1262 | 1332 |
+| 867 | 974 | 1057 | 1133 | 1200 | 1264 | 1335 |
 ## [go-jet/jet](https://github.com/go-jet/jet)
-| 2020-06-06 | 2020-12-06 | 2021-06-06 | 2021-12-06 | 2022-06-06 | 2022-12-06 | 2023-06-06 |
+| 2020-06-10 | 2020-12-10 | 2021-06-10 | 2021-12-10 | 2022-06-10 | 2022-12-10 | 2023-06-10 |
 | --- | --- | --- | --- | --- | --- | --- |
-| 260 | 326 | 404 | 546 | 703 | 901 | 1295 |
+| 264 | 327 | 407 | 559 | 707 | 908 | 1301 |
 ## [huandu/go-sqlbuilder](https://github.com/huandu/go-sqlbuilder)
-| 2020-06-06 | 2020-12-06 | 2021-06-06 | 2021-12-06 | 2022-06-06 | 2022-12-06 | 2023-06-06 |
+| 2020-06-10 | 2020-12-10 | 2021-06-10 | 2021-12-10 | 2022-06-10 | 2022-12-10 | 2023-06-10 |
 | --- | --- | --- | --- | --- | --- | --- |
-| 375 | 487 | 572 | 660 | 765 | 884 | 1009 |
+| 377 | 489 | 576 | 662 | 765 | 888 | 1012 |
